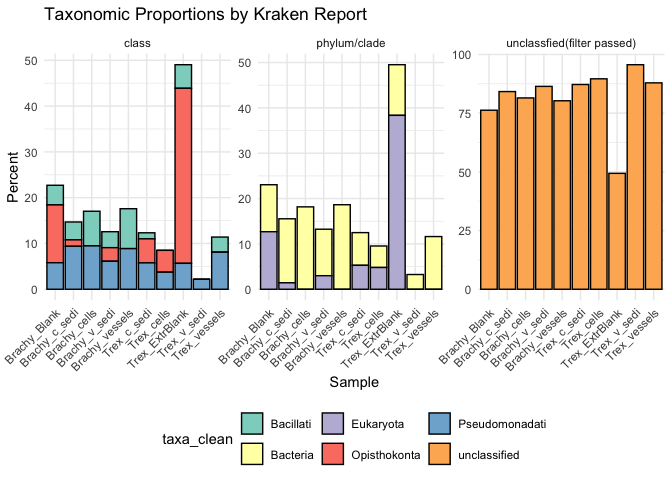
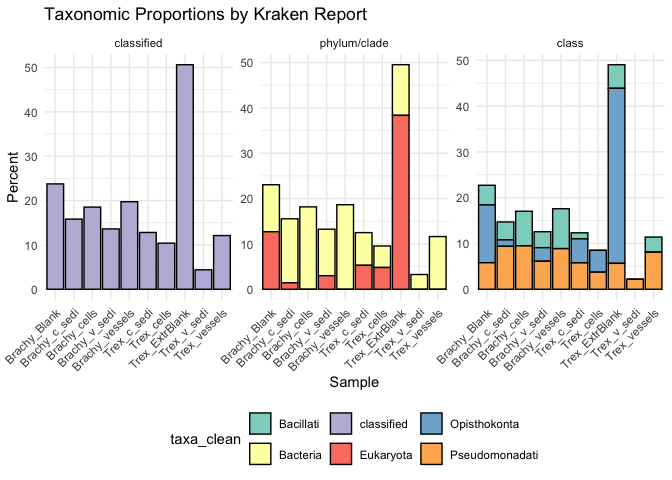
up

diff --git a/results/2025-09-12/README.md b/results/2025-09-12/README.md
@@ -83,8 +83,8 @@ Kraken report: domain proportions by sample
 <col style="width: 12%" />
 <col style="width: 14%" />
 <col style="width: 17%" />
-<col style="width: 18%" />
-<col style="width: 11%" />
+<col style="width: 19%" />
+<col style="width: 10%" />
 </colgroup>
 <thead>
 <tr class="header">
@@ -94,7 +94,7 @@ Kraken report: domain proportions by sample
 <th style="text-align: right;">______Bacillati</th>
 <th style="text-align: right;">______Opisthokonta</th>
 <th style="text-align: right;">______Pseudomonadati</th>
-<th style="text-align: right;">unclassified</th>
+<th style="text-align: right;">classified</th>
 </tr>
 </thead>
 <tbody>
@@ -105,7 +105,7 @@ Kraken report: domain proportions by sample
 <td style="text-align: right;">4.29</td>
 <td style="text-align: right;">12.63</td>
 <td style="text-align: right;">5.79</td>
-<td style="text-align: right;">76.24</td>
+<td style="text-align: right;">23.76</td>
 </tr>
 <tr class="even">
 <td style="text-align: left;">Brachy_c_sedi</td>
@@ -114,7 +114,7 @@ Kraken report: domain proportions by sample
 <td style="text-align: right;">3.90</td>
 <td style="text-align: right;">1.41</td>
 <td style="text-align: right;">9.38</td>
-<td style="text-align: right;">84.18</td>
+<td style="text-align: right;">15.82</td>
 </tr>
 <tr class="odd">
 <td style="text-align: left;">Brachy_cells</td>
@@ -123,7 +123,7 @@ Kraken report: domain proportions by sample
 <td style="text-align: right;">7.57</td>
 <td style="text-align: right;">0.00</td>
 <td style="text-align: right;">9.47</td>
-<td style="text-align: right;">81.47</td>
+<td style="text-align: right;">18.53</td>
 </tr>
 <tr class="even">
 <td style="text-align: left;">Brachy_v_sedi</td>
@@ -132,7 +132,7 @@ Kraken report: domain proportions by sample
 <td style="text-align: right;">3.49</td>
 <td style="text-align: right;">2.96</td>
 <td style="text-align: right;">6.12</td>
-<td style="text-align: right;">86.39</td>
+<td style="text-align: right;">13.61</td>
 </tr>
 <tr class="odd">
 <td style="text-align: left;">Brachy_vessels</td>
@@ -141,7 +141,7 @@ Kraken report: domain proportions by sample
 <td style="text-align: right;">8.72</td>
 <td style="text-align: right;">0.00</td>
 <td style="text-align: right;">8.87</td>
-<td style="text-align: right;">80.26</td>
+<td style="text-align: right;">19.74</td>
 </tr>
 <tr class="even">
 <td style="text-align: left;">Trex_ExtrBlank</td>
@@ -150,7 +150,7 @@ Kraken report: domain proportions by sample
 <td style="text-align: right;">5.15</td>
 <td style="text-align: right;">38.23</td>
 <td style="text-align: right;">5.66</td>
-<td style="text-align: right;">49.36</td>
+<td style="text-align: right;">50.64</td>
 </tr>
 <tr class="odd">
 <td style="text-align: left;">Trex_c_sedi</td>
@@ -159,7 +159,7 @@ Kraken report: domain proportions by sample
 <td style="text-align: right;">1.32</td>
 <td style="text-align: right;">5.25</td>
 <td style="text-align: right;">5.76</td>
-<td style="text-align: right;">87.19</td>
+<td style="text-align: right;">12.81</td>
 </tr>
 <tr class="even">
 <td style="text-align: left;">Trex_cells</td>
@@ -168,7 +168,7 @@ Kraken report: domain proportions by sample
 <td style="text-align: right;">0.00</td>
 <td style="text-align: right;">4.77</td>
 <td style="text-align: right;">3.73</td>
-<td style="text-align: right;">89.61</td>
+<td style="text-align: right;">10.39</td>
 </tr>
 <tr class="odd">
 <td style="text-align: left;">Trex_v_sedi</td>
@@ -177,7 +177,7 @@ Kraken report: domain proportions by sample
 <td style="text-align: right;">0.00</td>
 <td style="text-align: right;">0.00</td>
 <td style="text-align: right;">2.18</td>
-<td style="text-align: right;">95.62</td>
+<td style="text-align: right;">4.38</td>
 </tr>
 <tr class="even">
 <td style="text-align: left;">Trex_vessels</td>
@@ -186,7 +186,7 @@ Kraken report: domain proportions by sample
 <td style="text-align: right;">3.31</td>
 <td style="text-align: right;">0.00</td>
 <td style="text-align: right;">8.09</td>
-<td style="text-align: right;">87.89</td>
+<td style="text-align: right;">12.11</td>
 </tr>
 </tbody>
 </table>
